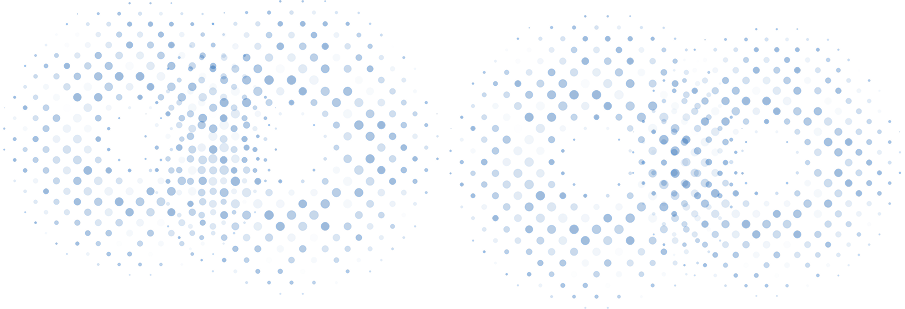
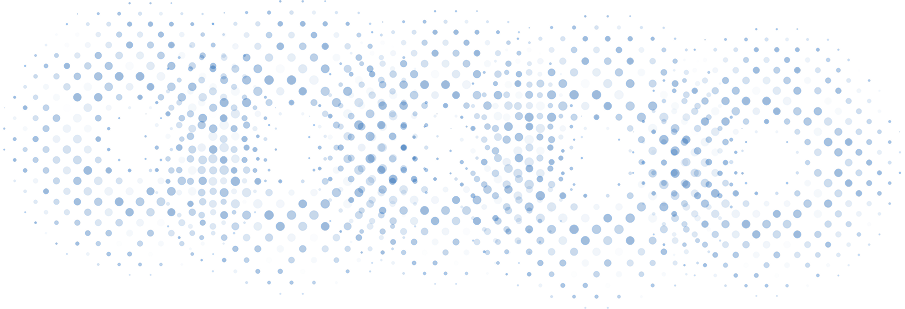
feat: ajusta CTA do blog

diff --git a/frontend/src/components/blog/BlogHero.tsx b/frontend/src/components/blog/BlogHero.tsx
@@ -1,4 +1,5 @@
 // src/components/sections/Hero.tsx
+import Image from "next/image";
 
 export default function BlogHero() {
     return (
@@ -31,22 +32,40 @@ export default function BlogHero() {
             <footer className="absolute bottom-0 left-0 right-0">
                 {/* Faixa azul */}
                 <div
-                    className="relative h-56 bg-primary flex items-center justify-center"
-                    style={{clipPath: "polygon(0 25%, 100% 0, 100% 100%, 0 100%)"}}
+                    className="relative h-56 bg-primary flex items-center justify-center overflow-hidden"
+                    style={{ clipPath: "polygon(0 25%, 100% 0, 100% 100%, 0 100%)" }}
                 >
-                    <div className="relative flex justify-center">
-                        {/* GRAFISMO ATRÁS */}
-                        <div
-                            className="absolute inset-0 -z-10 bg-[url('/blog/grafismo_blog.png')] bg-no-repeat bg-center bg-cover opacity-40 pointer-events-none"
-                            aria-hidden="true"
-                        />
+                    {/* GRAFISMO */}
+                    <Image
+                        src="/blog/grafismo_blog.png"
+                        alt=""
+                        width={750}
+                        height={750}
+                        aria-hidden="true"
+                        className="absolute z-0 pointer-events-none select-none"
+                    />
 
-                        {/* CTA (botão visual) */}
-                        <div className="px-10 py-4 rounded-full border border-white/20 bg-white/10 backdrop-blur-md shadow-[0_4px_30px_2px_#0E55A5] text-lg font-semibold text-white flex items-center justify-center">
-                            Conheça o nosso <span className="text-secondary ml-1">blog</span>
-                        </div>
-                    </div>
+                    {/* CTA */}
+                    <p
+                        className="
+                        relative
+                        z-10
+                        px-12
+                        py-8
+                        rounded-2xl
+                        border border-white/20 w-xl
+                        bg-white/10
+                        backdrop-blur-md
+                        shadow-[0_4px_30px_2px_#0E55A5]
+                        text-4xl
+                        text-white
+                        flex items-center justify-center
+                        "
+                    >
+                        Conheça o nosso <span className="text-secondary ml-2">blog</span>
+                    </p>
                 </div>
+
             </footer>
         </section>
     );
